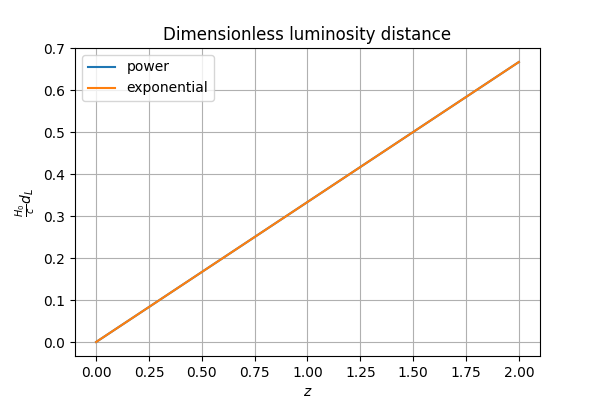
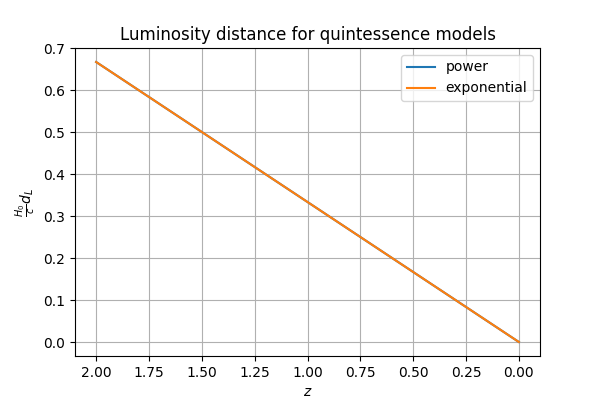
reversed xaxes

diff --git a/Projects/Project 1/scripts/problem12.py b/Projects/Project 1/scripts/problem12.py
@@ -72,6 +72,7 @@ def plot_lumosity_distances(
         none
     """
 
+    # Default filename
     if not filename:
         filename = os.path.abspath(
             os.path.join(
@@ -87,6 +88,7 @@ def plot_lumosity_distances(
     # The two quintessence models
     for V in ["power", "exponential"]:
         N, d = luminosity_distance_quintessence(V, N_i, N_f)
+        # z = np.exp(-N) - 1  # convert time x-axis to the redshift z
         z = np.flip(np.exp(-N) - 1)  # convert time x-axis to the redshift z
         plt.plot(z, d, label=V)
         if prnt:
@@ -111,9 +113,10 @@ def plot_lumosity_distances(
     """
     plt.xlabel("$z$")
     plt.ylabel(r"$\frac{H_0}{c}d_L$")
-    plt.title("Dimensionless luminosity distance")
+    plt.title("Luminosity distance for quintessence models")
     plt.legend()
     plt.grid()
+    plt.gca().invert_xaxis()  # revert x-axis
     plt.savefig(filename)
 
 

diff --git a/Projects/Project 1/scripts/problem9.py b/Projects/Project 1/scripts/problem9.py
@@ -185,6 +185,7 @@ def plot_density_parameters(
     plt.plot(z, Omega_r, label=r"Radiation $\Omega_r$")
     plt.plot(z, Omega_phi, label=r"Quintessence field $\Omega_{\phi}$")
     plt.legend()
+    plt.gca().invert_xaxis()  # revert x-axis
 
     # Labels and figure title
     plt.xlabel("z")
@@ -265,6 +266,7 @@ def plot_eos_parameters(
 
     plt.grid()
     plt.legend()
+    plt.gca().invert_xaxis()  # revert x-axis
     plt.xscale("log")
     plt.xlabel("z")
     plt.ylabel(r"$\omega$")

diff --git a/Projects/Project 1/scripts/problem10.py b/Projects/Project 1/scripts/problem10.py
@@ -125,6 +125,7 @@ def plot_hubble_parameters(
         print(z[-1], h[-1])
         print(z[0], h[0])
 
+    plt.gca().invert_xaxis()  # revert x-axis
     plt.xscale("log")
     plt.yscale("log")
     plt.xlabel("z")
